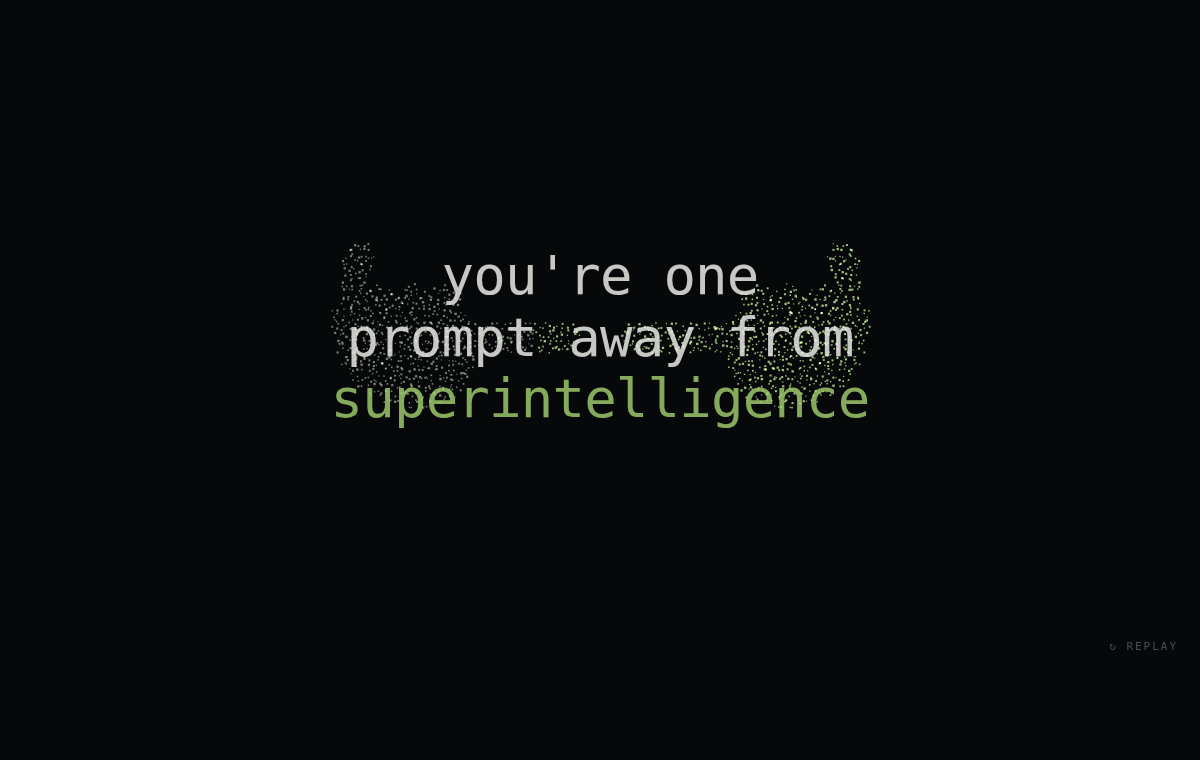
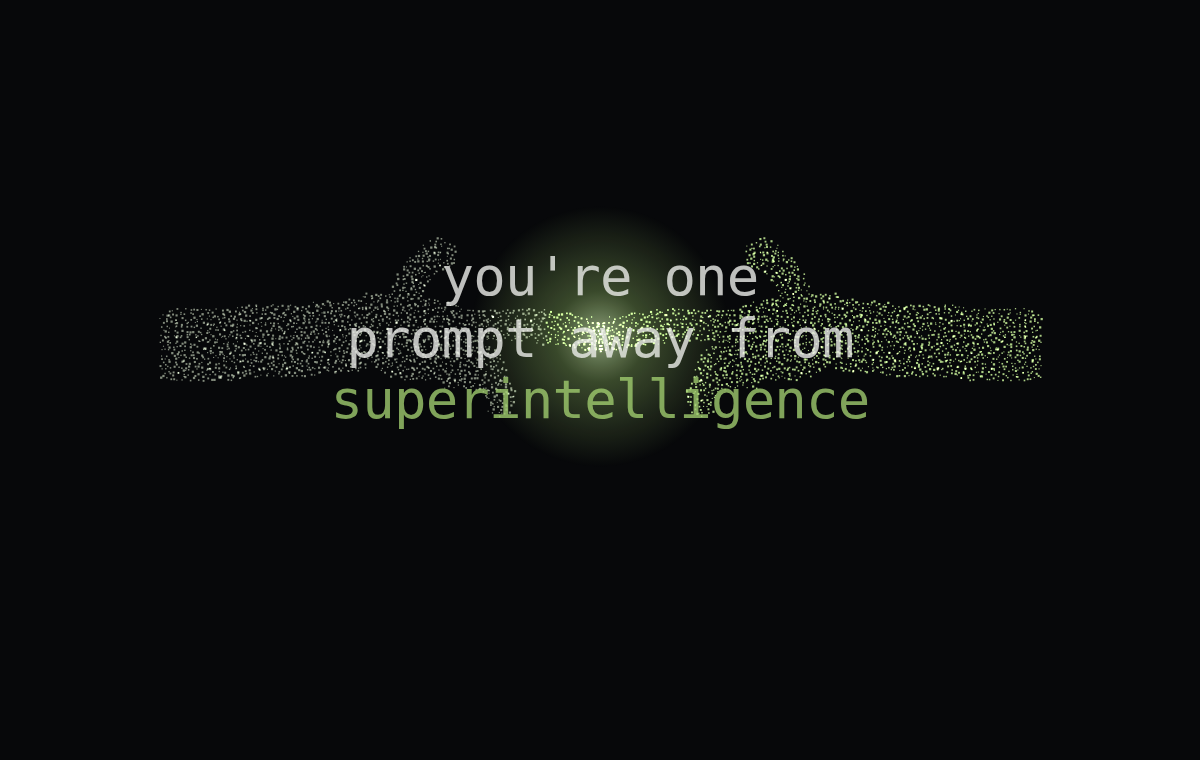
landing: scroll-driven scrollytelling + recognizable two hands
Rebuild driven by scroll position (scrubbable), not autoplay: scroll advances the
hands toward each other, the touch+spark, the particle burst, and each line reveal.
Hands redrawn as recognizable reaching hands (forearms from the edges, extended index
fingers, thumb, curled fingers) sampled into particles. Ends on tagline + vision line
+ Switchboard Enter card. Reduced-motion shows the final state.

Changed region(s): [[0.1233, 0.3026, 0.8633, 0.575]]

diff --git a/content/thelastprompt-landing/index.html b/content/thelastprompt-landing/index.html
@@ -5,29 +5,24 @@
 <style>
 :root{--bg:#07080A;--ink:#EDEEEA;--dim:#8A8D94;--faint:#4A4D54;--pop:#9FCB6E;--line:#202226;--card:#0E0F12;}
 *{margin:0;padding:0;box-sizing:border-box}
-html,body{height:100%}
-body{background:var(--bg);color:var(--ink);overflow:hidden;
+html{scroll-behavior:smooth}
+body{background:var(--bg);color:var(--ink);
   font-family:"IBM Plex Mono",ui-monospace,"SF Mono",Menlo,monospace;-webkit-font-smoothing:antialiased}
-#stage{position:fixed;inset:0}
+.scroll{height:600vh;position:relative}
+.sticky{position:sticky;top:0;height:100vh;overflow:hidden}
 canvas{position:absolute;inset:0;display:block}
 .layer{position:absolute;inset:0;display:flex;flex-direction:column;align-items:center;
   justify-content:center;text-align:center;pointer-events:none;padding:24px;will-change:opacity,transform}
-.l1 .big,.l2 .big{font-size:clamp(27px,4.8vw,54px);font-weight:300;line-height:1.14;
-  letter-spacing:-.015em;max-width:20ch;text-wrap:balance}
+.big{font-size:clamp(27px,4.8vw,54px);font-weight:300;line-height:1.14;letter-spacing:-.015em;
+  max-width:20ch;text-wrap:balance}
 .big .g{color:var(--pop);font-weight:400}
-/* final block */
 .final{gap:20px}
 .mark{font-size:12.5px;letter-spacing:.42em;color:var(--dim);text-transform:lowercase;padding-left:.42em}
 .mark b{color:var(--ink);font-weight:500}
-.tag{font-size:clamp(26px,4.4vw,46px);font-weight:300;letter-spacing:-.01em;line-height:1.12;
-  max-width:16ch;text-wrap:balance}
+.tag{font-size:clamp(26px,4.4vw,46px);font-weight:300;letter-spacing:-.01em;line-height:1.12;max-width:16ch;text-wrap:balance}
 .tag .g{color:var(--pop);font-weight:400}
-.vision{font-size:11.5px;letter-spacing:.16em;color:var(--faint);text-transform:uppercase;
-  display:flex;align-items:center;gap:12px}
-.vision .step{color:var(--faint)}
-.vision .now{color:var(--dim)}
-.vision .end{color:var(--pop)}
-.vision .arr{color:var(--line)}
+.vision{font-size:11.5px;letter-spacing:.16em;text-transform:uppercase;display:flex;align-items:center;gap:12px}
+.vision .now{color:var(--dim)} .vision .step{color:var(--faint)} .vision .end{color:var(--pop)} .vision .arr{color:var(--line)}
 .card{pointer-events:auto;margin-top:8px;display:flex;align-items:center;gap:16px;text-align:left;
   background:var(--card);border:1px solid var(--line);border-radius:16px;padding:16px 18px;
   min-width:340px;max-width:min(92vw,440px);box-shadow:0 24px 60px rgba(0,0,0,.5)}
@@ -37,125 +32,130 @@ canvas{position:absolute;inset:0;display:block}
 .cmeta{flex:1;min-width:0}
 .ctitle{font-size:15px;font-weight:600;color:var(--ink);letter-spacing:-.01em}
 .cdesc{font-size:11px;line-height:1.5;color:var(--dim);margin-top:3px}
-.enter{flex:none;background:var(--pop);color:#07080A;font-family:inherit;font-weight:600;
-  font-size:13px;letter-spacing:.02em;border:none;border-radius:999px;padding:11px 18px;
-  cursor:pointer;text-decoration:none;white-space:nowrap;transition:transform .15s ease,filter .15s ease}
+.enter{flex:none;background:var(--pop);color:#07080A;font-family:inherit;font-weight:600;font-size:13px;
+  letter-spacing:.02em;border:none;border-radius:999px;padding:11px 18px;cursor:pointer;text-decoration:none;
+  white-space:nowrap;transition:transform .15s ease,filter .15s ease}
 .enter:hover{filter:brightness(1.08);transform:translateY(-1px)}
-.replay{position:fixed;bottom:20px;right:22px;pointer-events:auto;background:none;border:none;
-  color:var(--faint);font-family:inherit;font-size:11px;letter-spacing:.18em;cursor:pointer;text-transform:uppercase}
-.replay:hover{color:var(--dim)}
+.hint{position:fixed;left:0;right:0;bottom:26px;text-align:center;font-size:11px;letter-spacing:.22em;
+  text-transform:uppercase;color:var(--faint);pointer-events:none}
+.hint .a{display:block;margin-top:8px;animation:bob 1.8s ease-in-out infinite}
+@keyframes bob{0%,100%{transform:translateY(0)}50%{transform:translateY(5px)}}
+@media (prefers-reduced-motion:reduce){.hint .a{animation:none}}
 </style></head>
 <body>
-<div id="stage"><canvas id="c"></canvas></div>
-
-<div class="layer l1" id="line1" style="opacity:0">
-  <div class="big">you're one prompt away from <span class="g">superintelligence</span></div>
-</div>
-<div class="layer l2" id="line2" style="opacity:0">
-  <div class="big">the last prompt helps you <span class="g">close that gap</span></div>
-</div>
-<div class="layer final" id="final" style="opacity:0">
-  <div class="mark"><b>thelastprompt</b>.ai</div>
-  <div class="tag">an AI lab for <span class="g">AI experiments</span></div>
-  <div class="vision"><span class="now">prompts</span><span class="arr">→</span><span class="step">fewer</span><span class="arr">→</span><span class="end">promptless</span></div>
-  <div class="card">
-    <div class="ctile"><i></i></div>
-    <div class="cmeta">
-      <div class="ctitle">Switchboard</div>
-      <div class="cdesc">route your AI — subscription · context · models · users · agents</div>
+<div class="scroll">
+  <div class="sticky">
+    <canvas id="c"></canvas>
+    <div class="layer" id="line1" style="opacity:0"><div class="big">you're one prompt away from <span class="g">superintelligence</span></div></div>
+    <div class="layer" id="line2" style="opacity:0"><div class="big">the last prompt helps you <span class="g">close that gap</span></div></div>
+    <div class="layer final" id="final" style="opacity:0">
+      <div class="mark"><b>thelastprompt</b>.ai</div>
+      <div class="tag">an AI lab for <span class="g">AI experiments</span></div>
+      <div class="vision"><span class="now">prompts</span><span class="arr">→</span><span class="step">fewer</span><span class="arr">→</span><span class="end">promptless</span></div>
+      <div class="card">
+        <div class="ctile"><i></i></div>
+        <div class="cmeta"><div class="ctitle">Switchboard</div>
+          <div class="cdesc">route your AI — subscription · context · models · users · agents</div></div>
+        <a class="enter" href="https://thelastprompt.ai/switchboard/">Enter →</a>
+      </div>
     </div>
-    <a class="enter" href="https://thelastprompt.ai/switchboard/">Enter →</a>
+    <div class="hint" id="hint">scroll<span class="a">↓</span></div>
   </div>
 </div>
-<button class="replay" id="replay">↻ replay</button>
-
 <script>
 (function(){
   const c=document.getElementById('c'), ctx=c.getContext('2d');
   const reduce=matchMedia('(prefers-reduced-motion:reduce)').matches;
-  const L1=document.getElementById('line1'),L2=document.getElementById('line2'),FIN=document.getElementById('final');
-  let W,H,cx,cy,DPR,SIM=false;
+  const L1=document.getElementById('line1'),L2=document.getElementById('line2'),FIN=document.getElementById('final'),HINT=document.getElementById('hint');
+  let W,H,cx,cy,DPR;
   function size(){DPR=Math.min(devicePixelRatio||1,2);W=innerWidth;H=innerHeight;cx=W/2;cy=H/2;
     c.width=W*DPR;c.height=H*DPR;c.style.width=W+'px';c.style.height=H+'px';ctx.setTransform(DPR,0,0,DPR,0,0);}
   size();
-  const clamp=(v,a,b)=>v<a?a:v>b?b:v;
-  const ramp=(t,a,b)=>clamp((t-a)/(b-a),0,1);
-  const pulse=(t,ia,ib,oa,ob)=>ramp(t,ia,ib)*(1-ramp(t,oa,ob));
+  const clamp=(v,a,b)=>v<a?a:v>b?b:v, ramp=(t,a,b)=>clamp((t-a)/(b-a),0,1),
+        pulse=(t,ia,ib,oa,ob)=>ramp(t,ia,ib)*(1-ramp(t,oa,ob)), eo=x=>1-Math.pow(1-x,3);
 
-  function handPoints(scale){
-    const w=Math.round(230*scale), h=Math.round(250*scale);
-    const o=document.createElement('canvas'); o.width=w; o.height=h;
-    const g=o.getContext('2d'); g.fillStyle='#fff'; g.strokeStyle='#fff'; g.lineCap='round'; g.lineJoin='round'; const S=scale;
-    g.beginPath(); g.moveTo(20*S,95*S);
-    g.quadraticCurveTo(20*S,150*S,55*S,168*S); g.quadraticCurveTo(95*S,185*S,120*S,168*S);
-    g.quadraticCurveTo(140*S,155*S,140*S,128*S); g.quadraticCurveTo(140*S,100*S,120*S,92*S);
-    g.quadraticCurveTo(95*S,78*S,55*S,86*S); g.quadraticCurveTo(28*S,92*S,20*S,95*S); g.closePath(); g.fill();
-    for(let i=0;i<3;i++){ g.beginPath(); g.arc((60+i*26)*S,90*S,15*S,0,7); g.fill(); }
-    g.lineWidth=24*S; g.beginPath(); g.moveTo(46*S,104*S); g.quadraticCurveTo(30*S,74*S,44*S,52*S); g.stroke();
-    g.lineWidth=26*S; g.beginPath(); g.moveTo(120*S,120*S); g.quadraticCurveTo(175*S,116*S,214*S,118*S); g.stroke();
-    g.beginPath(); g.arc(214*S,118*S,13*S,0,7); g.fill();
-    const img=g.getImageData(0,0,w,h).data; const pts=[]; const step=Math.max(3,Math.round(4.4*S));
-    for(let y=0;y<h;y+=step) for(let x=0;x<w;x+=step){ if(img[(y*w+x)*4+3]>128){ pts.push({x:x+(Math.random()-.5)*step,y:y+(Math.random()-.5)*step}); } }
-    return {pts,tipx:214*S,tipy:118*S};
+  // ---- a recognisable hand (index finger extended right, forearm to the left) ----
+  function handImg(S){
+    const w=Math.round(370*S), h=Math.round(250*S);
+    const o=document.createElement('canvas'); o.width=w; o.height=h; const g=o.getContext('2d');
+    g.fillStyle='#fff'; g.strokeStyle='#fff'; g.lineCap='round'; g.lineJoin='round';
+    const M=(a)=>a*S;
+    // forearm
+    g.lineWidth=M(58); g.beginPath(); g.moveTo(M(8),M(148)); g.lineTo(M(150),M(140)); g.stroke();
+    // back of hand / palm
+    g.beginPath(); g.moveTo(M(150),M(108));
+    g.quadraticCurveTo(M(150),M(172),M(205),M(176));
+    g.quadraticCurveTo(M(250),M(178),M(258),M(150));
+    g.quadraticCurveTo(M(262),M(128),M(238),M(116));
+    g.quadraticCurveTo(M(205),M(100),M(150),M(108)); g.closePath(); g.fill();
+    // thumb (up)
+    g.lineWidth=M(26); g.beginPath(); g.moveTo(M(196),M(120)); g.quadraticCurveTo(M(196),M(86),M(224),M(74)); g.stroke();
+    g.beginPath(); g.arc(M(224),M(74),M(13),0,7); g.fill();
+    // index finger extended right, slight droop, two segments
+    g.lineWidth=M(27); g.beginPath(); g.moveTo(M(238),M(132)); g.quadraticCurveTo(M(300),M(126),M(348),M(140)); g.stroke();
+    g.beginPath(); g.arc(M(348),M(140),M(14),0,7); g.fill();
+    // curled fingers (middle/ring/pinky) folded below index
+    g.lineWidth=M(21);
+    for(let i=0;i<3;i++){ const bx=246+i*4, by=150+i*10;
+      g.beginPath(); g.moveTo(M(230),M(by)); g.quadraticCurveTo(M(bx+26),M(by+2),M(bx+18),M(by+24)); g.stroke(); }
+    const d=g.getImageData(0,0,w,h).data, pts=[], step=Math.max(3,Math.round(3.6*S));
+    for(let y=0;y<h;y+=step) for(let x=0;x<w;x+=step){ if(d[(y*w+x)*4+3]>128) pts.push({x:x+(Math.random()-.5)*step,y:y+(Math.random()-.5)*step}); }
+    return {pts,tipx:M(348),tipy:M(140)};
   }
-  let P=[], hand, handScale, tStart, boomAt=false, raf;
-  const OPEN=()=>Math.max(220,Math.min(W,H)*0.42);
-  const NEAR=()=>Math.max(46,Math.min(W,H)*0.075);
-  const REST=()=>Math.min(W,H)*0.012;
+
+  let P=[], hand, handScale;
+  const OPEN=()=>Math.max(230,Math.min(W,H)*0.44), NEAR=()=>Math.max(48,Math.min(W,H)*0.08), REST=()=>Math.min(W,H)*0.012;
   function build(){
-    handScale=Math.max(.72,Math.min(1.35,Math.min(W,H)/560)); hand=handPoints(handScale); P=[];
-    function place(side){ for(const p of hand.pts){ let lx=p.x-hand.tipx, ly=p.y-hand.tipy; if(side>0){lx=-lx;}
-      P.push({side,lx,ly,x:cx+(side<0?-1:1)*(W*0.6)+(Math.random()-.5)*140,y:cy+(Math.random()-.5)*H*0.9,
-        vx:0,vy:0,a:0,size:1.1+Math.random()*1.3,seed:Math.random()*6.28}); } }
-    place(-1); place(1); tStart=performance.now(); boomAt=false;
-    L1.style.opacity=0;L2.style.opacity=0;FIN.style.opacity=0;
+    handScale=Math.max(.7,Math.min(1.5,Math.min(W,H)/540)); hand=handImg(handScale); P=[];
+    for(const side of [-1,1]) for(const p of hand.pts){
+      let lx=p.x-hand.tipx, ly=p.y-hand.tipy; if(side>0) lx=-lx;
+      const ang=Math.atan2(ly,(side<0?-1:1)*(lx))+(Math.random()-.5)*1.1, dist=(0.8+Math.random()*1.6);
+      P.push({side,lx,ly, ex:Math.cos(ang)*dist*(side<0?-1:1)*0.7+(Math.random()-.5)*0.6, ey:Math.sin(ang)*dist+(Math.random()-.5)*0.6,
+        exd:(80+Math.random()*Math.max(W,H)*0.5), size:1+Math.random()*1.3, seed:Math.random()*6.28});
+    }
   }
-  function tipHalf(t){
-    const o=OPEN()/2,n=NEAR()/2,r=REST()/2;
-    if(t<1.0) return o;
-    if(t<2.0){ const e=1-Math.pow(1-ramp(t,1.0,2.0),3); return o+(n-o)*e; }
-    if(t<2.6) return n;
-    const e=1-Math.pow(1-ramp(t,2.6,2.85),2); return n+(r-n)*e;
-  }
-  function setText(t){
-    const o1=pulse(t,1.15,1.8,2.65,3.0), o2=pulse(t,3.5,4.1,5.15,5.6), of=ramp(t,5.75,6.7);
+  function tipHalf(p){ const o=OPEN()/2,n=NEAR()/2,r=REST()/2;
+    if(p<0.20) return o+(n-o)*eo(ramp(p,0,0.20));
+    if(p<0.26) return n+(r-n)*eo(ramp(p,0.20,0.26));
+    return r; }
+
+  let progress=0, forced=null;
+  function render(now){
+    const p=forced!=null?forced:progress;
+    ctx.clearRect(0,0,W,H); ctx.globalCompositeOperation='lighter';
+    const ex=eo(ramp(p,0.28,0.48)), touched=p>=0.26;
+    // spark near contact
+    if(p>0.16 && p<0.34){ const gg=Math.max(0,1-Math.abs(p-0.27)/0.09), r=14+gg*175;
+      const gr=ctx.createRadialGradient(cx,cy,0,cx,cy,r);
+      gr.addColorStop(0,'rgba(226,255,198,'+(0.95*gg)+')'); gr.addColorStop(.35,'rgba(159,203,110,'+(0.5*gg)+')'); gr.addColorStop(1,'rgba(159,203,110,0)');
+      ctx.fillStyle=gr; ctx.beginPath(); ctx.arc(cx,cy,r,0,7); ctx.fill(); }
+    // shockwave
+    if(p>0.28 && p<0.5){ const rt=ramp(p,0.28,0.5), rr=rt*Math.max(W,H)*0.6;
+      ctx.strokeStyle='rgba(159,203,110,'+(0.5*(1-rt))+')'; ctx.lineWidth=2; ctx.beginPath(); ctx.arc(cx,cy,rr,0,7); ctx.stroke(); }
+    const half=tipHalf(p);
+    for(const pt of P){
+      const baseX=cx+(pt.side<0?-1:1)*half+pt.lx, baseY=cy+pt.ly;
+      let x=baseX, y=baseY, a=1;
+      if(ex>0){ x=baseX+pt.ex*pt.exd*ex; y=baseY+pt.ey*pt.exd*ex - ex*40*Math.random()*0; a=1-ramp(p,0.30,0.52)*0.86; }
+      if(now&&p>0.5){ x+=Math.sin(now/1400+pt.seed)*0.5; y+=Math.cos(now/1600+pt.seed)*0.5; }
+      let col; if(!touched){ col=(pt.lx>-40*handScale)?'rgba(196,236,150,'+(0.86)+')':'rgba(214,226,200,0.6)'; }
+      else col='rgba(176,214,140,'+(0.72*a)+')';
+      ctx.fillStyle=col; const s=pt.size; ctx.fillRect(x,y,s,s);
+    }
+    ctx.globalCompositeOperation='source-over';
+    const o1=pulse(p,0.05,0.11,0.23,0.28), o2=pulse(p,0.42,0.49,0.60,0.66), of=ramp(p,0.72,0.83);
     L1.style.opacity=o1; L1.style.transform='translateY('+((1-o1)*8)+'px)';
     L2.style.opacity=o2; L2.style.transform='translateY('+((1-o2)*8)+'px)';
-    FIN.style.opacity=of; FIN.style.transform='translateY('+((1-of)*10)+'px)';
-    FIN.style.pointerEvents=of>0.5?'auto':'none';
+    FIN.style.opacity=of; FIN.style.transform='translateY('+((1-of)*10)+'px)'; FIN.style.pointerEvents=of>0.5?'auto':'none';
+    HINT.style.opacity=1-ramp(p,0.0,0.05);
   }
-  function frame(now){
-    const t=(now-tStart)/1000;
-    ctx.clearRect(0,0,W,H); ctx.globalCompositeOperation='lighter';
-    if(!boomAt && t>=2.9){ boomAt=true;
-      for(const p of P){ const px=cx+(p.side<0?-1:1)*tipHalf(2.85)+p.lx, py=cy+p.ly;
-        const dx=px-cx,dy=py-cy,d=Math.hypot(dx,dy)||1,f=(1.6+Math.random()*2.4);
-        p.vx=(dx/d)*f*(2.4+Math.random()*3.2)+(Math.random()-.5)*2;
-        p.vy=(dy/d)*f*(2.4+Math.random()*3.2)-(0.6+Math.random()*1.4); p.x=px; p.y=py; } }
-    setText(t);
-    // spark
-    if(t>1.6 && t<3.25){ const gg=Math.max(0,1-Math.abs(t-2.85)/0.9), r=14+gg*170;
-      const gr=ctx.createRadialGradient(cx,cy,0,cx,cy,r);
-      gr.addColorStop(0,'rgba(224,255,196,'+(0.92*gg)+')'); gr.addColorStop(.35,'rgba(159,203,110,'+(0.5*gg)+')');
-      gr.addColorStop(1,'rgba(159,203,110,0)'); ctx.fillStyle=gr; ctx.beginPath(); ctx.arc(cx,cy,r,0,7); ctx.fill(); }
-    if(boomAt && t<3.85){ const rt=(t-2.9)/0.95, rr=rt*Math.max(W,H)*0.55;
-      ctx.strokeStyle='rgba(159,203,110,'+(0.5*(1-rt))+')'; ctx.lineWidth=2; ctx.beginPath(); ctx.arc(cx,cy,rr,0,7); ctx.stroke(); }
-    const half=tipHalf(t);
-    for(const p of P){ let col;
-      if(!boomAt){ const hx=cx+(p.side<0?-1:1)*half+p.lx, hy=cy+p.ly, spd=t<1.0?0.06:0.14;
-        p.x+=(hx-p.x)*spd; p.y+=(hy-p.y)*spd; p.a+=(Math.min(1,t/0.9)-p.a)*0.1;
-        col='rgba(210,224,196,'+(0.55*p.a)+')'; if(p.lx>-26*handScale){ col='rgba(190,232,150,'+(0.82*p.a)+')'; } }
-      else{ p.vx*=0.955; p.vy*=0.955; p.vy+=0.015; p.x+=p.vx; p.y+=p.vy; p.a*=0.986; col='rgba(176,214,140,'+(0.7*p.a)+')'; }
-      ctx.fillStyle=col; const s=p.size*(boomAt?0.9:1); ctx.fillRect(p.x,p.y,s,s); }
-    ctx.globalCompositeOperation='source-over';
-    if(boomAt && t>4.6){ for(const p of P){ p.x+=Math.sin(now/1400+p.seed)*0.06; p.y+=Math.cos(now/1600+p.seed)*0.05; } }
-    if(!SIM) raf=requestAnimationFrame(frame);
-  }
-  function start(){ build(); if(reduce){ L1.style.opacity=0;L2.style.opacity=0;FIN.style.opacity=1;FIN.style.pointerEvents='auto'; return; }
-    cancelAnimationFrame(raf); raf=requestAnimationFrame(frame); }
-  addEventListener('resize',size);
-  document.getElementById('replay').addEventListener('click',start);
-  start();
+  let raf; function loop(now){ render(now); raf=requestAnimationFrame(loop); }
+  function onScroll(){ const max=document.documentElement.scrollHeight-innerHeight; progress=clamp((window.scrollY||window.pageYOffset)/max,0,1); }
+  addEventListener('scroll',onScroll,{passive:true});
+  addEventListener('resize',()=>{size();build();});
+  build(); onScroll();
+  if(reduce){ forced=1; render(0); }
+  else { raf=requestAnimationFrame(loop); }
 })();
 </script>
 </body></html>
